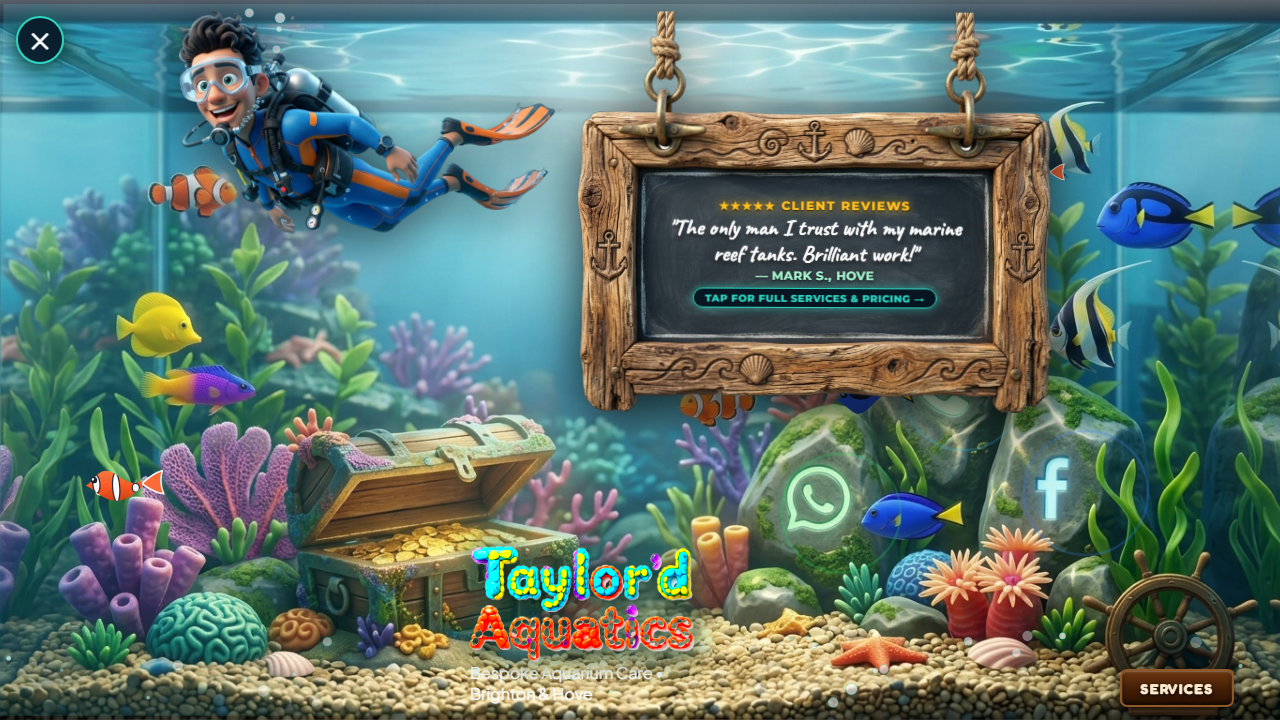
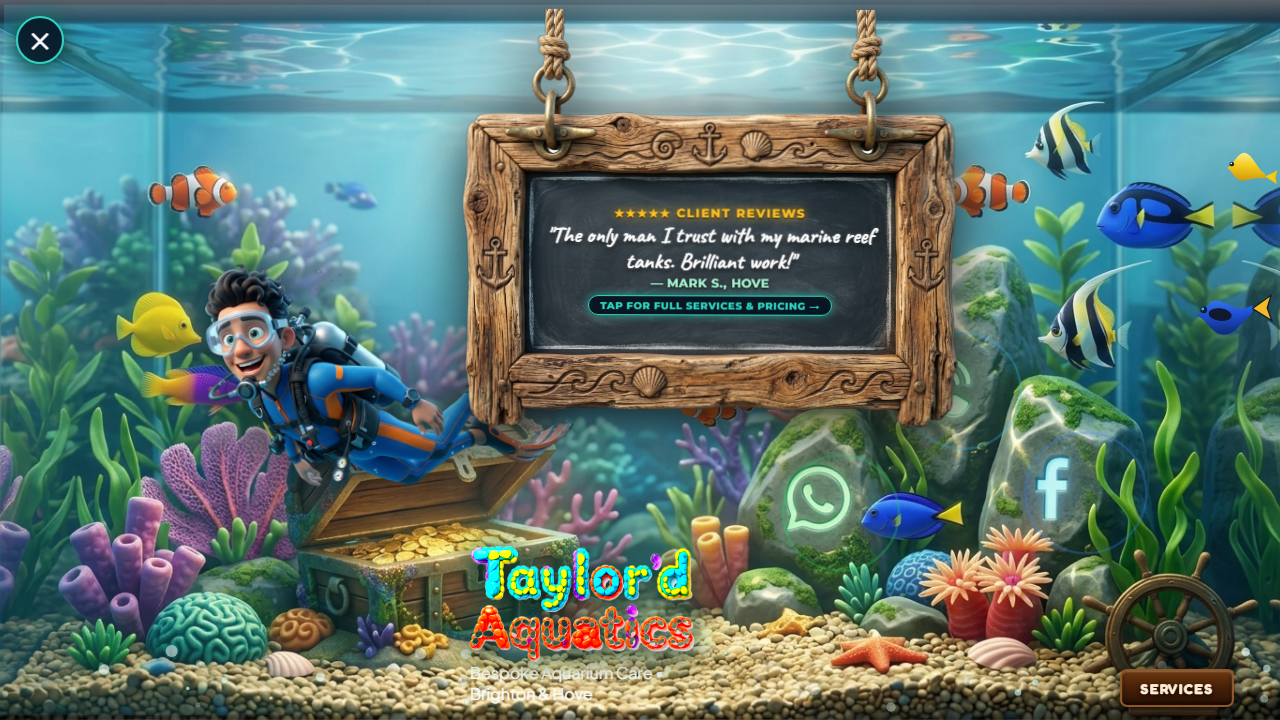
feat: position hanging chalkboard at the top and diver swimmer below

diff --git a/Aquarium.html b/Aquarium.html
@@ -320,35 +320,35 @@
       box-shadow: 0 0 14px var(--gold-glow);
     }
 
-    /* 16:9 Desktop Placement */
+    /* 16:9 Desktop Placement: Chalkboard hanging at top, Diver swimming below */
     @media (min-aspect-ratio: 1/1) {
-      .diver-swimmer-actor {
-        top: 3%;
-        left: 14%;
-        width: 380px;
-      }
       .chalkboard-hanging-rig {
-        top: 2%;
-        left: 45%;
-        width: 480px;
-        max-width: 42vw;
+        top: 1.5%;
+        left: 36%;
+        width: 500px;
+        max-width: 46vw;
+      }
+      .diver-swimmer-actor {
+        top: 38%;
+        left: 16%;
+        width: 380px;
       }
     }
 
-    /* 9:16 Mobile Placement (Vertical Stack: Diver on Top, Chalkboard Below) */
+    /* 9:16 Mobile Placement: Chalkboard at top, Diver swimming below */
     @media (max-aspect-ratio: 1/1) {
-      .diver-swimmer-actor {
-        top: 1.5%;
-        left: 50%;
-        width: 250px;
-        margin-left: -125px;
-      }
       .chalkboard-hanging-rig {
-        top: 18.5%;
+        top: 1.5%;
         left: 50%;
         width: 360px;
         max-width: 94vw;
         margin-left: -180px;
+      }
+      .diver-swimmer-actor {
+        top: 33%;
+        left: 50%;
+        width: 250px;
+        margin-left: -125px;
       }
       .chalk-headline { font-size: 1.18rem; min-height: 28px; }
       .chalk-badge { font-size: 0.60rem; }

diff --git a/index.html b/index.html
@@ -320,35 +320,35 @@
       box-shadow: 0 0 14px var(--gold-glow);
     }
 
-    /* 16:9 Desktop Placement */
+    /* 16:9 Desktop Placement: Chalkboard hanging at top, Diver swimming below */
     @media (min-aspect-ratio: 1/1) {
-      .diver-swimmer-actor {
-        top: 3%;
-        left: 14%;
-        width: 380px;
-      }
       .chalkboard-hanging-rig {
-        top: 2%;
-        left: 45%;
-        width: 480px;
-        max-width: 42vw;
+        top: 1.5%;
+        left: 36%;
+        width: 500px;
+        max-width: 46vw;
+      }
+      .diver-swimmer-actor {
+        top: 38%;
+        left: 16%;
+        width: 380px;
       }
     }
 
-    /* 9:16 Mobile Placement (Vertical Stack: Diver on Top, Chalkboard Below) */
+    /* 9:16 Mobile Placement: Chalkboard at top, Diver swimming below */
     @media (max-aspect-ratio: 1/1) {
-      .diver-swimmer-actor {
-        top: 1.5%;
-        left: 50%;
-        width: 250px;
-        margin-left: -125px;
-      }
       .chalkboard-hanging-rig {
-        top: 18.5%;
+        top: 1.5%;
         left: 50%;
         width: 360px;
         max-width: 94vw;
         margin-left: -180px;
+      }
+      .diver-swimmer-actor {
+        top: 33%;
+        left: 50%;
+        width: 250px;
+        margin-left: -125px;
       }
       .chalk-headline { font-size: 1.18rem; min-height: 28px; }
       .chalk-badge { font-size: 0.60rem; }
